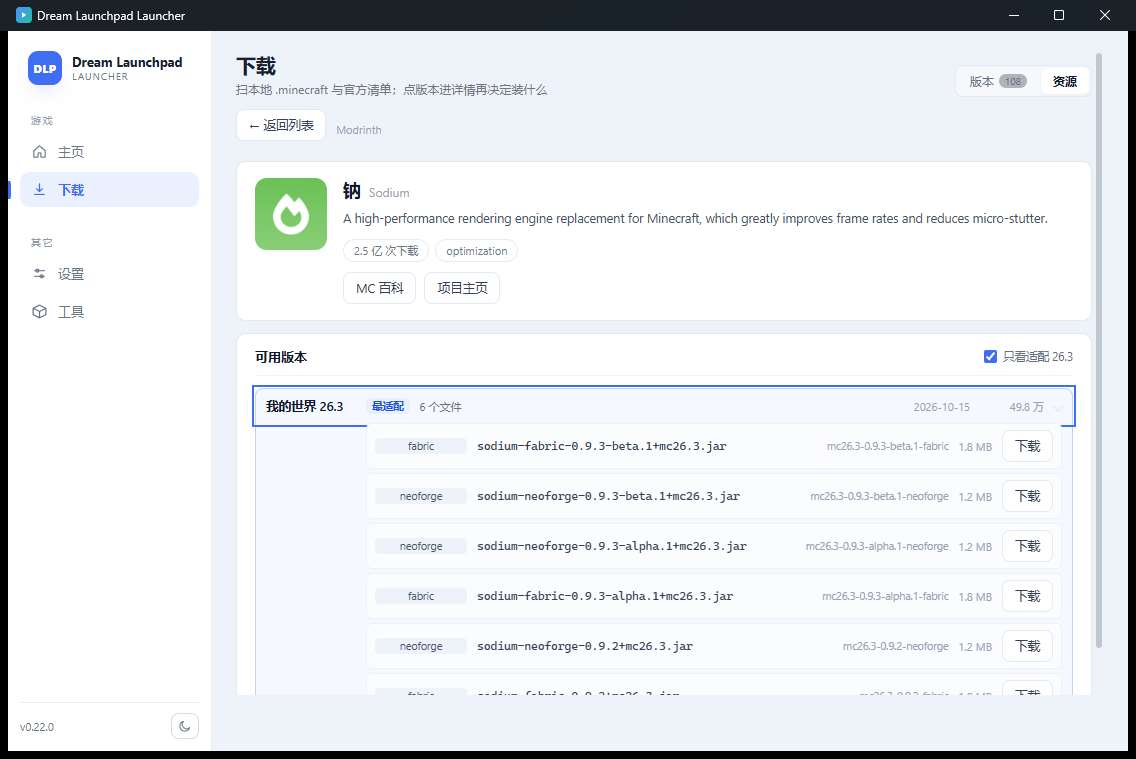
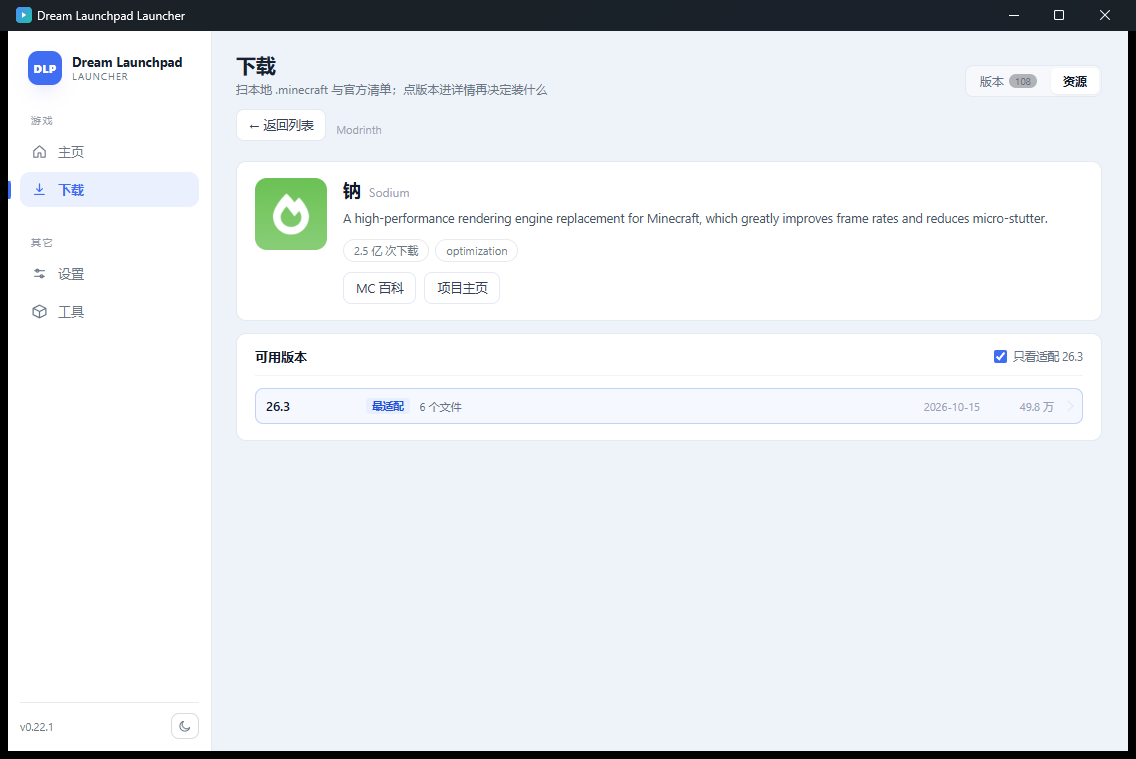
fix: MC 百科按钮真正打开项目页、去掉版本分组前缀（0.22.1）

diff --git a/ui/src/components/market/MarketDetail.tsx b/ui/src/components/market/MarketDetail.tsx
@@ -11,9 +11,6 @@ export default function MarketDetail() {
 
   const mc = state.marketMc || state.baseVersion || state.selected || "";
   const loader = state.marketLoader;
-  const mcmod = project.title_zh
-    ? `https://search.mcmod.cn/s?key=${encodeURIComponent(project.title_zh)}`
-    : null;
 
   // 按《我的世界》版本号分组（一个模组版本可能同时支持多个 MC 版本）
   // 只看适配时只保留当前 MC 版本那组；关掉则全部列出
@@ -52,15 +49,22 @@ export default function MarketDetail() {
             ))}
           </div>
           <div className="detail-actions">
-            {mcmod && (
-              <a className="ghost link" href={mcmod} target="_blank" rel="noreferrer">
-                MC 百科
-              </a>
-            )}
+            <button
+              type="button"
+              className="ghost"
+              disabled={state.busy}
+              onClick={() => void actions.openMcmod(project.title_zh ?? project.title)}
+            >
+              {state.busy ? "正在查…" : "MC 百科"}
+            </button>
             {project.site_url && (
-              <a className="ghost link" href={project.site_url} target="_blank" rel="noreferrer">
+              <button
+                type="button"
+                className="ghost"
+                onClick={() => void actions.openUrl(project.site_url)}
+              >
                 项目主页
-              </a>
+              </button>
             )}
           </div>
         </div>

diff --git a/ui/src/store.ts b/ui/src/store.ts
@@ -444,6 +444,20 @@ function dismissLaunch() {
   set({ launching: null });
 }
 
+/** 打开 MC 百科：先查出该模组的项目页，查不到退回搜索页 */
+async function openMcmod(title: string) {
+  set({ busy: true, error: "" });
+  try {
+    const url = await invoke<string | null>("mcmod_url", { title });
+    const target = url ?? `https://search.mcmod.cn/s?key=${encodeURIComponent(title)}`;
+    await invoke("open_url", { url: target });
+  } catch (e) {
+    set({ error: String(e) });
+  } finally {
+    set({ busy: false });
+  }
+}
+
 /** 用系统浏览器打开 https 链接（后端用 ShellExecuteW，不会闪 cmd 窗口） */
 async function openUrl(url: string) {
   try {
@@ -985,6 +999,7 @@ export const actions = {
   dismissLaunch,
   openDir,
   openUrl,
+  openMcmod,
   loadSettings,
   saveSettings,
   loadLoaderOptions,

diff --git a/ui/src/components/market/McVersionGroup.tsx b/ui/src/components/market/McVersionGroup.tsx
@@ -44,7 +44,7 @@ export default function McVersionGroup({
   return (
     <li className={best && loaderHit ? "version-row best" : "version-row"}>
       <button type="button" className="version-head" onClick={() => onToggle(key)}>
-        <span className="version-name">我的世界 {mc}</span>
+        <span className="version-name">{mc}</span>
         {best && loaderHit && <span className="tag-best">最适配</span>}
         <span className="version-meta">{files.length} 个文件</span>
         <span className="version-date">{formatDate(versions[0]?.date ?? "")}</span>

diff --git a/src-tauri/src/lib.rs b/src-tauri/src/lib.rs
@@ -143,6 +143,49 @@ fn open_url(url: String) -> Result<(), String> {
     open_external(&url)
 }
 
+/// 在 MC 百科里找到某个模组的项目页。
+///
+/// mcmod 没有公开 API，只能走站内搜索页，再从 HTML 里取第一个
+/// `https://www.mcmod.cn/class/NNNN.html` 链接。找不到就返回 None，
+/// 前端会退回到搜索页。
+#[tauri::command]
+async fn mcmod_url(title: String) -> Result<Option<String>, String> {
+    if title.trim().is_empty() {
+        return Ok(None);
+    }
+
+    let client = reqwest::Client::builder()
+        .user_agent(
+            "Mozilla/5.0 (Windows NT 10.0; Win64; x64) AppleWebKit/537.36              (KHTML, like Gecko) Chrome/120.0.0.0 Safari/537.36",
+        )
+        .build()
+        .map_err(|e| e.to_string())?;
+
+    let body = client
+        .get("https://search.mcmod.cn/s")
+        .query(&[("key", title.as_str())])
+        .send()
+        .await
+        .map_err(|e| format!("访问 MC 百科失败: {e}"))?
+        .text()
+        .await
+        .map_err(|e| e.to_string())?;
+
+    Ok(first_mcmod_class(&body))
+}
+
+/// 从搜索页 HTML 里取第一个项目链接
+fn first_mcmod_class(html: &str) -> Option<String> {
+    const PREFIX: &str = "https://www.mcmod.cn/class/";
+    let start = html.find(PREFIX)? + PREFIX.len();
+    let rest = &html[start..];
+    let digits: String = rest.chars().take_while(|c| c.is_ascii_digit()).collect();
+    if digits.is_empty() || !rest[digits.len()..].starts_with(".html") {
+        return None;
+    }
+    Some(format!("{PREFIX}{digits}.html"))
+}
+
 #[cfg(target_os = "windows")]
 fn open_external(url: &str) -> Result<(), String> {
     use std::ffi::OsStr;
@@ -927,6 +970,7 @@ pub fn run() {
         .invoke_handler(tauri::generate_handler![
             system_info,
             open_url,
+            mcmod_url,
             msa_start,
             msa_poll,
             msa_refresh,
@@ -973,4 +1017,23 @@ pub fn run() {
         ])
         .run(tauri::generate_context!())
         .expect("error while running tauri application");
+}
+
+#[cfg(test)]
+mod tests {
+    use super::first_mcmod_class;
+
+    #[test]
+    fn finds_first_class_link() {
+        let html = r#"<a href="https://www.mcmod.cn/class/8714.html">x</a><a href="https://www.mcmod.cn/class/22671.html">y</a>"#;
+        assert_eq!(
+            first_mcmod_class(html).as_deref(),
+            Some("https://www.mcmod.cn/class/8714.html")
+        );
+    }
+
+    #[test]
+    fn none_without_link() {
+        assert_eq!(first_mcmod_class("<html></html>"), None);
+    }
 }

diff --git a/src/examples/mcmod_probe.rs b/src/examples/mcmod_probe.rs
@@ -1,0 +1,43 @@
+//! 验证 MC 百科查询：`cargo run --example mcmod_probe -- ModernFix`
+//!
+//! 逻辑与 `mcmod_url` 命令一致：搜一次，取第一个 class/NNNN.html。
+
+#[tokio::main]
+async fn main() -> Result<(), String> {
+    let title = std::env::args().nth(1).unwrap_or_else(|| "ModernFix".into());
+    let client = reqwest::Client::builder()
+        .user_agent(
+            "Mozilla/5.0 (Windows NT 10.0; Win64; x64) AppleWebKit/537.36 \
+             (KHTML, like Gecko) Chrome/120.0.0.0 Safari/537.36",
+        )
+        .build()
+        .map_err(|e| e.to_string())?;
+
+    let body = client
+        .get("https://search.mcmod.cn/s")
+        .query(&[("key", title.as_str())])
+        .send()
+        .await
+        .map_err(|e| format!("请求失败: {e}"))?
+        .text()
+        .await
+        .map_err(|e| e.to_string())?;
+
+    println!("HTML 长度 {}", body.len());
+    match first_mcmod_class(&body) {
+        Some(url) => println!("项目页: {url}"),
+        None => println!("没找到项目页（会退回搜索页）"),
+    }
+    Ok(())
+}
+
+fn first_mcmod_class(html: &str) -> Option<String> {
+    const PREFIX: &str = "https://www.mcmod.cn/class/";
+    let start = html.find(PREFIX)? + PREFIX.len();
+    let rest = &html[start..];
+    let digits: String = rest.chars().take_while(|c| c.is_ascii_digit()).collect();
+    if digits.is_empty() || !rest[digits.len()..].starts_with(".html") {
+        return None;
+    }
+    Some(format!("{PREFIX}{digits}.html"))
+}

diff --git a/CHANGELOG.md b/CHANGELOG.md
@@ -2,6 +2,19 @@
 
 本项目从 .NET 版（`main` 分支）切换为 Rust + Tauri 重写，版本号重新从 0.1.0 开始。
 
+## [0.22.1] - 2026-10-21
+
+### 修复
+
+- **MC 百科打不开**：原来用的是 `<a target="_blank">`，WebView2 里这种链接不会交给系统浏览器。
+  现在改成按钮 + 后端 `mcmod_url` 命令：先去 `search.mcmod.cn` 搜一次，
+  取出第一个 `https://www.mcmod.cn/class/NNNN.html` 项目页，再用 ShellExecuteW 打开；查不到退回搜索页。
+  「项目主页」同样改成按钮
+
+### 变更
+
+- 模组详情的版本分组标题去掉「我的世界」前缀，只显示版本号（26.1.2 / 1.21.4）
+
 ## [0.22.0] - 2026-10-21
 
 市场列表改成翻页，模组详情按《我的世界》版本号组织。
